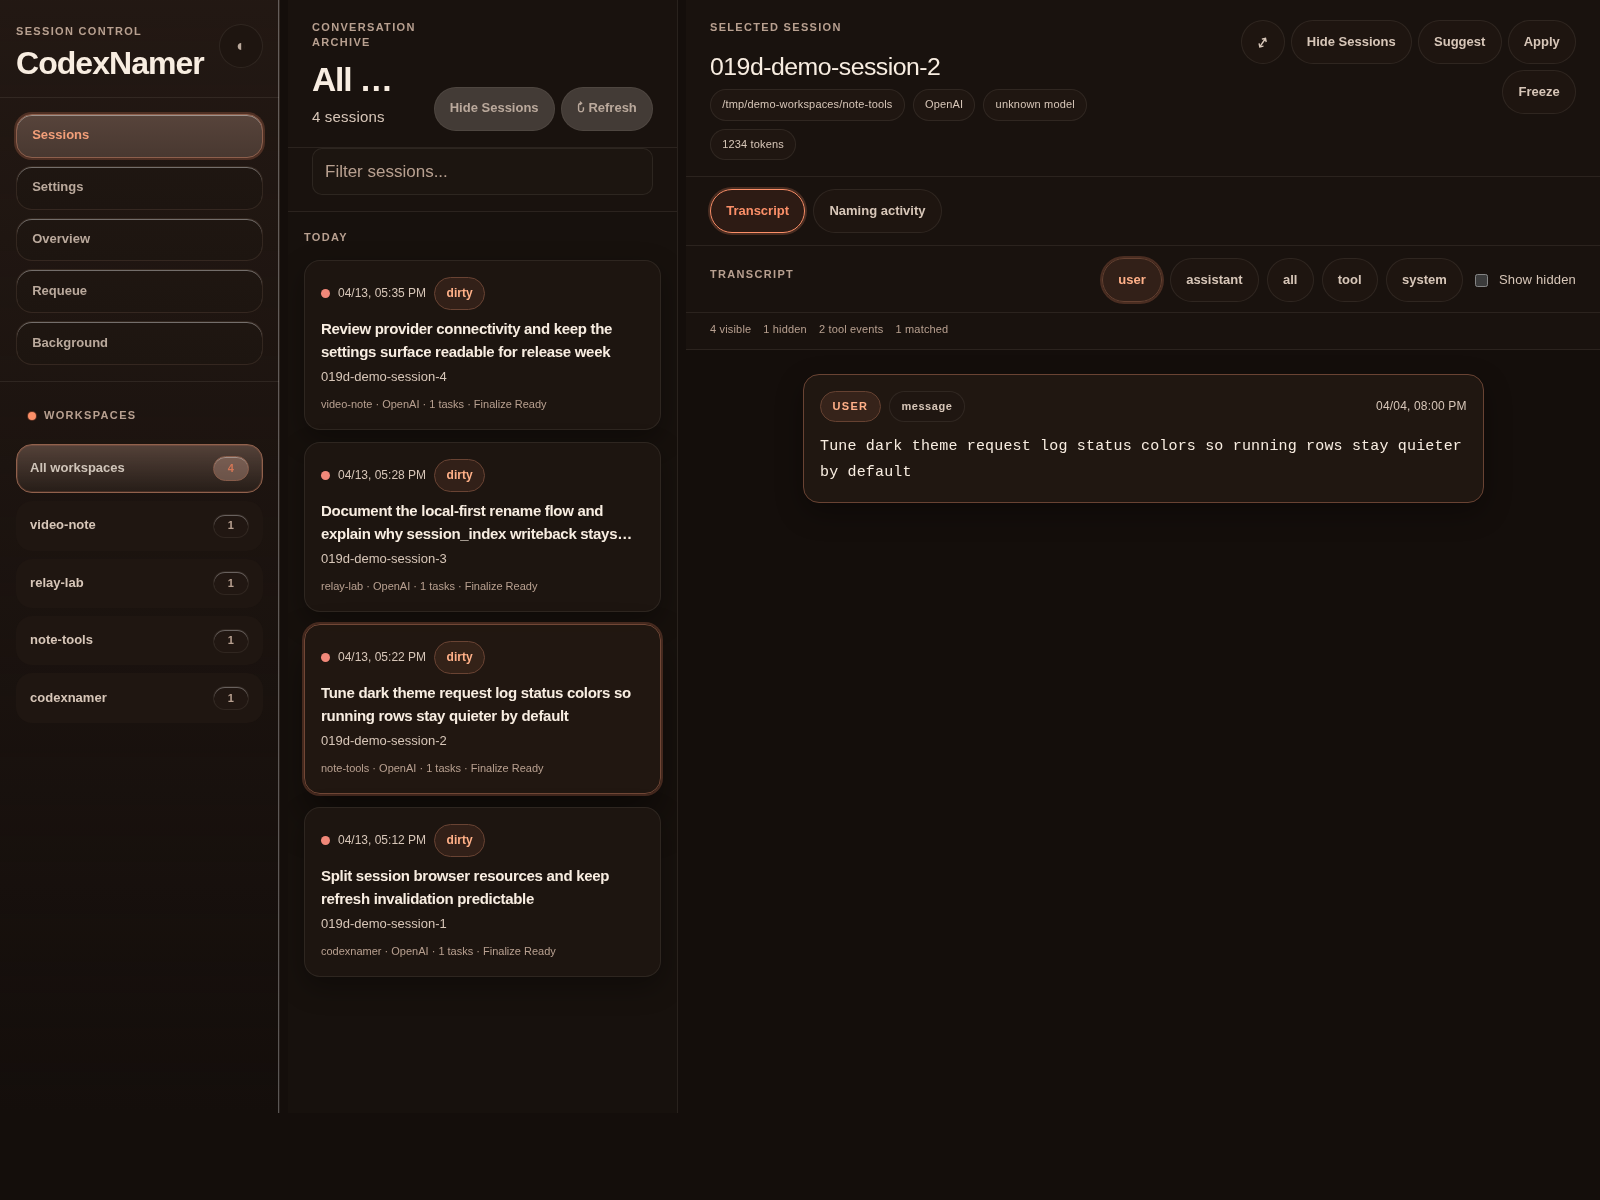
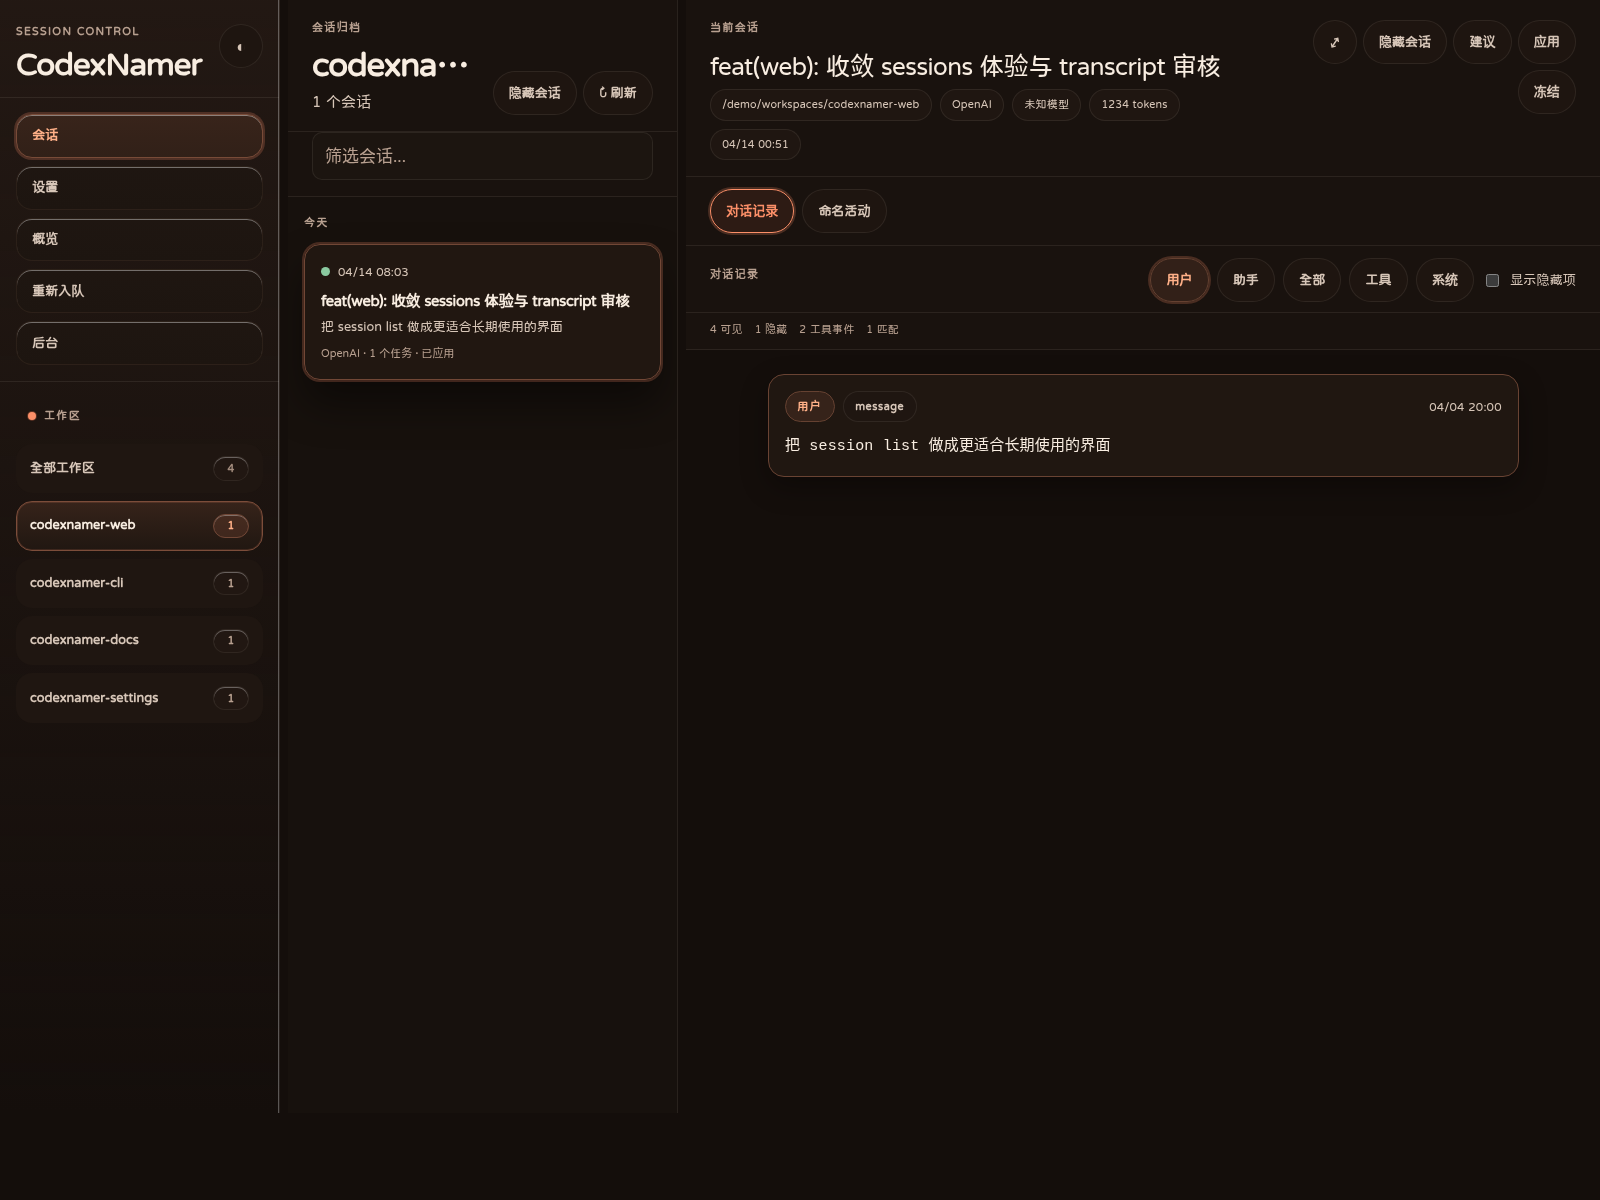
feat(repo): prepare bokushi typography and release assets

diff --git a/packages/web/src/design-system.css b/packages/web/src/design-system.css
@@ -1,3 +1,11 @@
+@font-face {
+  font-family: "jf-openhuninn-2.0";
+  src: url("/fonts/jf-openhuninn-2.0.woff2") format("woff2");
+  font-style: normal;
+  font-weight: 400;
+  font-display: swap;
+}
+
 :root {
   --font-ui:
     "jf-openhuninn-2.0", -apple-system, BlinkMacSystemFont, "Segoe UI", Roboto, "Helvetica Neue",
@@ -197,6 +205,7 @@ html[data-theme="dark"] {
 }
 
 body {
+  font-family: var(--font-ui);
   font-size: var(--font-size-base);
   line-height: var(--line-height-base);
   letter-spacing: 0.01em;

diff --git a/packages/web/src/styles.css b/packages/web/src/styles.css
@@ -1,7 +1,7 @@
 :root {
   --font-ui:
-    "Inter", "Segoe UI", "PingFang SC", "Hiragino Sans GB", "Noto Sans CJK SC", "Microsoft YaHei",
-    system-ui, sans-serif;
+    "jf-openhuninn-2.0", -apple-system, BlinkMacSystemFont, "Segoe UI", Roboto, "Helvetica Neue",
+    Arial, "Noto Sans", "PingFang SC", "Hiragino Sans GB", sans-serif;
   --font-display: var(--font-ui);
   --font-mono:
     "JetBrainsMono Nerd Font", "JetBrainsMono NF", "JetBrainsMono Nerd Font Mono",

diff --git a/docs/internal/README.md b/docs/internal/README.md
@@ -23,6 +23,10 @@
 - [前端设计审查](./reviews/frontend-design-audit-2026-04-05.md)
 - [前端设计系统落地记录](./reviews/frontend-design-system-adoption-2026-04-13.md)
 
+### 发布材料
+
+- [CodexNamer 对外分享文案（2026-04-14）](./releases/codexnamer-share-post-2026-04-14.md)
+
 ### 内部规格与规划
 
 - [实现 Checklist](./spec/implementation-checklist.md)